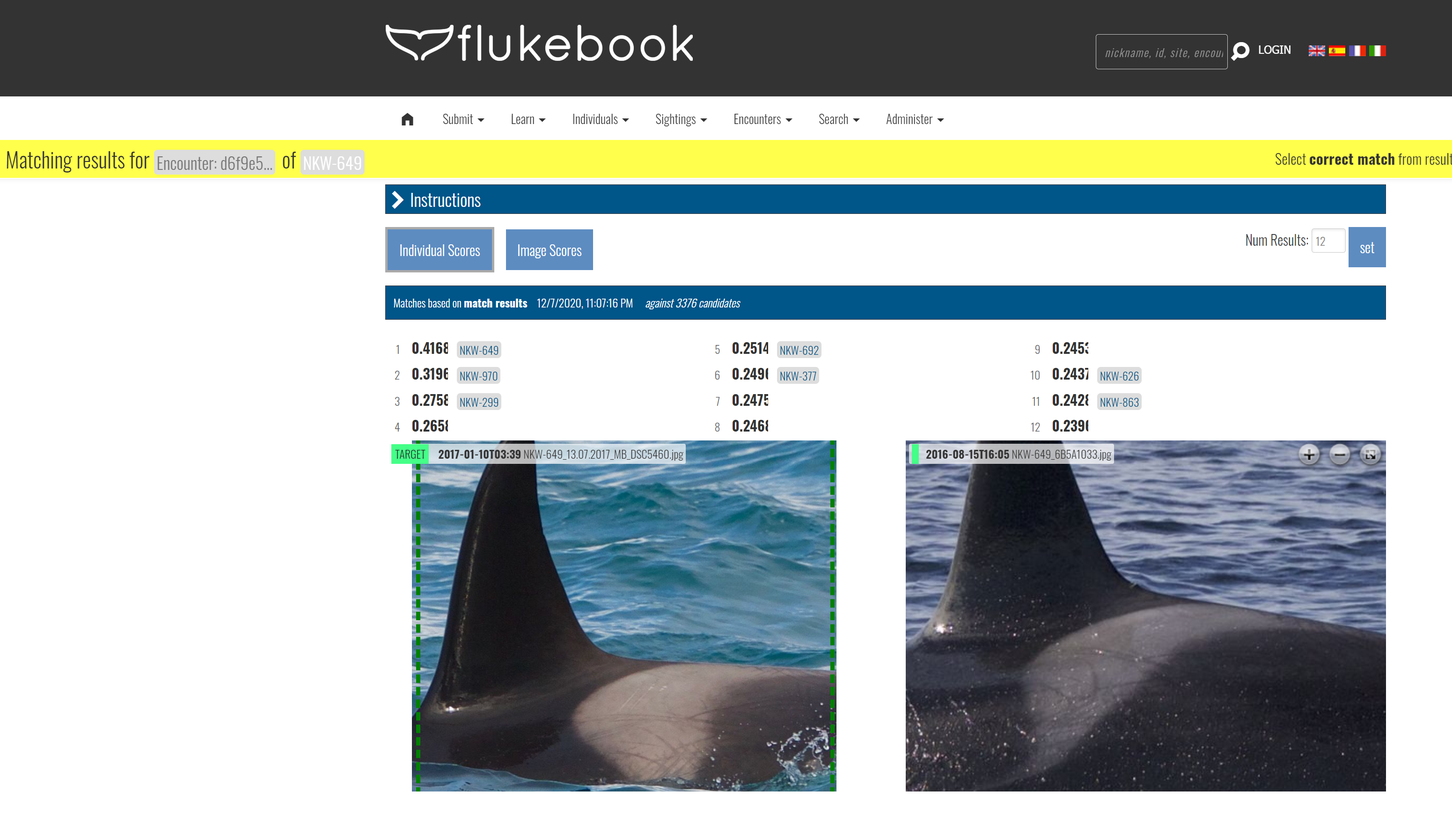
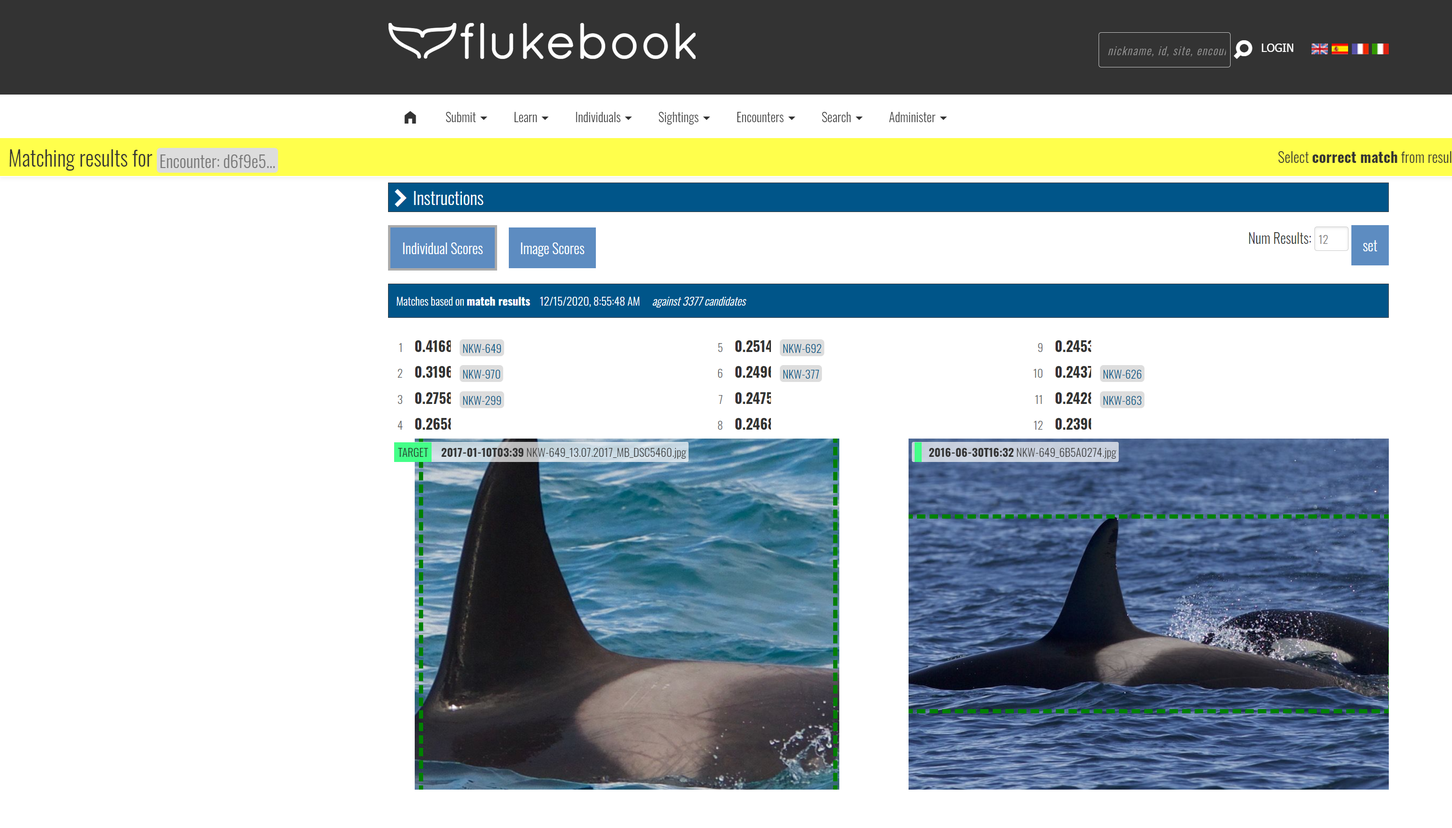
Big update on matching process

diff --git a/sidebars.js b/sidebars.js
@@ -7,24 +7,25 @@ module.exports = {
       "researchers/encounter_guide",
       "researchers/marked_individual",
       "researchers/sighting",
-      "researchers/my_account",
 	  "researchers/security_overview",
     ],
 	Data: [
+	     "researchers/photography_guidelines",
       "researchers/report_encounter",
 	  "researchers/bulk_import",
 	  "researchers/matching_process",
-    ],
-    Features: [
-      "researchers/manual_annotation",
-      "researchers/projects",
-      "researchers/silo_security",
+	  "researchers/manual_annotation",
+	  "researchers/projects",
 	  "researchers/r_package",
     ],
-    Roles: ["researchers/org_admin"],
+    Security: [
+      "researchers/security_overview",
+	  "researchers/my_account",
+      "researchers/silo_security",
+	  "researchers/org_admin",
+    ],
     Specifications: [
       "researchers/system_requirements",
-      "researchers/photography_guidelines",
       "researchers/unsupported_developer_tools",
 	  "researchers/configuration",
     ],

diff --git a/docs/researchers/matching_process.md b/docs/researchers/matching_process.md
@@ -3,38 +3,124 @@ id: matching_process
 title: Matching Process
 ---
 
-To start the matching process, you must report an encounter. Once you have uploaded an encounter, navigate to the the Encounter page. If detection has completed successfully, you will see a mediaAsset with a dashed square (a bounding box) around the animal, as depicted below.
+Wildbook provides several ways to automatically and manually access the [Image Analysis Pipeline](ia_pipeline.md) to identify individual animals, as well as to perform by-eye individual ID. Wildbook assists you in photo ID but never makes a decision for you. 
 
-![MediaAsset with bounding boxes, indicating successful detection of the animals.](../../static/img/matching_process_1.png)
+## Automated Detection and ID with Encounter submission
 
-If you do not see bounding boxes, you will need to use the Manual Annotation tool (Beta) to create an annotation, or reach out to support through the Wildbook Community.
+When you [Report an Encounter](report_encounter.md) of a single animal, if you set the species to one supported by the [Image Analysis Pipeline](ia_pipeline.md), Wildbook will automatically perform the following steps:
 
-Once you've confirmed the bounding box, you can take any of the following actions by clicking the option in the bottom right menu on the image.
+1. Send each submitted image to Detection to find one or more Annotations in each photo. When Detection 
+2. Depending on the type of Annotations returned (its "Image Analysis Class"), such as "whale_orca" or "panthera_uncia", route each Annotation to one or more ID algorithms.
+3. Consolidate all Annotation match results into a single page for your review and ID assignment (e.g., setting an existing individual ID or assigning a new ID). See [Reviewing Match Results](#reviewing-match-results) to understand the results page. The Encounter page also allows you to set individual ID later, and you can return to these match results in the future as well.
 
-## Match results
+Because Detection and Identification reside in a queue of computer vision actions requested by all users of your Wildbook, you may not immediately see the results of the [Image Analysis Pipeline](ia_pipeline.md). 
 
-Click on Match results to be taken to the iaResults page associated with your encounter.
+If you see green bounding boxes on images in your submitted Encounter, then Detection has completed. After submission, you may need to periodically refresh the Encounter page for the bounding boxes to appear.
 
-A banner at the top of the page provides a link to your encounter and the associated Marked Individual, if one exists.
+<img src="../../static/img/simpleGalleryBoundingBox.png" alt="simpleGalleryBoundingBox" width="50%" height="50%" />
 
-Use score buttons to select what candidates display:
+In the example above, two annotations have been found:
 
-Individual Scores: computes one match score for every individual in the database. This is the aggregate of each image score for that individual.
-Images Scores: computes the match score for every image in the database when compared to the query image
+- a whale_orca+fin_dorsal (bounding box around the dorsal fin)
+- whale_orca (bounding box around the whale body)
 
-Adjust the number of results that display in the list by changing the value in Num Results and selecting set.
+If you see green bounding boxes on images in your submitted Encounter and **match results** appears in the menu of any image, then Identification has started or completed. After submission, you may need to periodically refresh the Encounter page for the bounding boxes to appear and match results to be ready. Click **match results** to review potential ID matches. See [Reviewing Match Results](#reviewing-match-results) for more information.
 
-The available matches display in a list. This list contains the following information:
+<img src="../../static/img/simpleGalleryBoundingBoxMatchResults.png" alt="simpleGalleryBoundingBoxMatchResults"  width="50%" height="50%"/>
 
-Rank: The position in the listing. Correlates to the match score.
-Match score: The match score represents the value associated with the likelihood of the match being successful. These scores are not standardized between algorithms or platforms and are not bounded.
-Encounter link: Opens a new tab to the potential match encounter.
-Inspect: Zoom in and look at the features being matched. Areas that are highlighted display what the machine has identified as matching areas. If areas include background, consider the match to be less accurate than estimated.
-Checkbox: Select the checkbox to indicate that an encounter is a match with the target image.
 
-The image from your encounter appears on the left, labeled as the TARGET image. Potential candidates for matching appear on the right side, labeled to match their position in the list.
 
-## Start another match
+## Automated Detection and ID with Bulk Import
 
-## Visual matcher
+After a successful [Bulk Import](bulk_import.md), Detection and Identification can be run from the import summary, allowing for large scale processing. However, this can also cause delays for other Users attempting to use the [Image Analysis Pipeline](ia_pipeline.md) and its job queue. See [Bulk Import](bulk_import.md) for more information.
 
+## Manual Annotation with Automated ID
+
+While Wildbook uses advance machine learning to find and label animals in images, it always has a probability of missing an Annotation. Wildbook allows you to draw additional bounding boxes on an image, label their viewpoints (e.g., "left", "right", etc.), and their classes (e.g., "whale_fluke", "panthera_uncia", etc.). Once a manual Annotation has been created, its will appear as a normal Annotation on an image and will allow you to [manually start a match](#manually-starting-a-match). See [Manual Annotation](manual_annotation.md) for more information.
+
+<img src="../../static/img/addAnnotation.png" alt="addAnnotation"  width="50%" height="50%"/>
+
+### Removing an Annotation
+
+If you don't like an Annotation from machine learning-based Detection or from [Manual Annotation](manual_annotation.md), you can delete it by selecting **remove annotation** from the Encounter Gallery.
+
+<img src="../../static/img/deleteAnnotation.png" alt="deleteAnnotation" width="50%" height="50%"  />
+
+Removing an Annotation has these behaviors:
+
+- If multiple Annotations are present on an image, removing an Annotation simply removes the Annotation from the database.
+- If multiple Annotations are present on an image, but the removed Annotation is the only Annotation from this image on this Encounter, then both the Annotation and the image are removed from the Encounter. The image (a.k.a. "MediaAsset") and its other Annotations reside still on other Encounters.
+- If an Annotation is removed from an image, and this Encounter is the only place the image is referenced, then the image remains on the Encounter.
+
+## Manually Starting a Match
+
+For a matchable Annotation, you can start or re-run matching from the Encounter page Gallery by selecting **start match** or **start another match** from the menu for the Annotation.
+
+<img src="../../static/img/startMatch.png" alt="startMatch" width="50%" height="50%" />
+
+## Reviewing Match Results
+
+To review the results of the automated matching process, select **match results** from the menu on the Annotation in the Encounter Gallery. If you recently submitted the Encounter, you may need to wait and then refresh your browser periodically for Wildbook to process the results from automated Detection before the **match results** menu option appears.
+
+<img src="../../static/img/simpleGalleryBoundingBoxMatchResults.png" alt="simpleGalleryBoundingBoxMatchResults" width="50%" height="50%" />
+
+Each match result is a unique page and has a unique URL that can be emailed and shared with colleagues for review. New matching tasks replace the old results on the **match results** menu option. Each match result page may show one or more sets of matches, potentially displaying:
+
+- one algorithm match for one annotation (e.g., by clicking **start another match** on an annotation for which only one ID algorithm is configured)
+- multiple algorithm matches for one annotation (e.g., by clicking **start another match** on an annotation for which multiple ID algorithms are configured)
+- multiple algorithm matches for multiple annotations (e.g., a new Encounter submission with multiple photos)
+
+The information displayed depends on where in Wildbook the [Image Analysis Pipeline](ia_pipeline.md) was called from and for which species.
+
+<img src="../../static/img/matchResults.png" alt="matchResults"  />
+
+### Match results page sections
+
+The following sections make up the matching results page.
+
+#### Encounter banner
+
+A banner labeled **Matching results for ** at the top of the page provides a link to the related encounter and the associated Marked Individual, if an ID has been assigned to the Encounter.
+
+#### Instructions
+
+Click to expand the **Instructions** section to get instructions for reviewing matches on the page. Some of those are repeated here:
+
+- Hover mouse over results to **compare candidates** to target.
+- Links to the corresponding **encounters** and **individuals** are next to each match score.
+- Select **correct match** by hovering over the correct result and checking the checkbox
+- Use the buttons to switch between result types:
+  - **Individual Scores:** This is the default. It computes one match score for every *individual* in the database. This is the aggregate of each image score for that individual.
+  - **Image Scores:** computes the match score for every annotation in the database when compared to the query annotation
+
+* Adjust the number of results that display in each list by changing the value in **Num Results** and selecting **set**.
+
+#### Results: One ranked set per annotation per algorithm
+
+Each block of ranked results represents the top-*N* matches (default top 12) to an Annotation in descending order. Rank 1 is the top suggested match, and each successive match is presented with relatively less confidence. Roll over each row in the list to review the potentially matched annotations. The annotation from your encounter appears on the left, labeled as the TARGET image. Potential candidates for matching appear on the right side, labeled to match their position in the list.
+
+<img src="../../static/img/matchResultsSection.png" alt="matchResultsSection"  />
+
+This list contains the following information:
+
+- Rank: The position in the listing (1,2,3,4, etc.).
+- Match score: The match score represents the numeric value returned from the algorithm. These scores are not standardized between algorithms or platforms and are generally not bounded. For more information about interpreting algorithm scores, see [Identification](ia_pipeline.md#identification).
+- Encounter link: Opens a new tab to the potential match encounter.
+- Inspect: Opens a new page focused on the features being matched. Areas that are highlighted display potentially matched features. Not every algorithm will provide additional detail. Only the first 12 matches may have additional detail.
+- Checkbox: Select the checkbox to indicate that an encounter is a match with the target annotation.
+
+#### Setting the ID using the checkbox
+
+In addition to setting the Individual ID from the [Encounter page](encounter_guide.md), you can set the ID directly from the match results using the checkbox on any listed result. By clicking the checkbox, one of the following results will be suggested:
+
+- *If the annotation is on an encounter for which the ID has not yet been set and the candidate annotation does not have an ID*, selecting the checkbox will display a new option in the upper right that includes:
+  - a typeahead form field that allows you to enter a new ID to assign to both encounters or to look up an existing ID to assign to both encounters.
+  - The button **Set individual on both encounters** that allows you to set the ID from the form field. Both annotations and their respective encounters now belong to the same marked individual.
+- *If the annotation is on an encounter for which the ID has not yet been set and the candidate annotation has an ID set*, selecting the checkbox will display a new button in the upper right **Set to individual**. Click the button to assign the suggested individual ID to the annotation and its Encounter. Both annotations and their respective encounters now belong to the same marked individual.
+- *If the annotation is on an encounter for which the ID has been set and the candidate annotation has a different ID set*, selecting the checkbox will display a new button in the upper right **Merge individuals**. Click **Merge individuals** to merge the two Marked Individuals into a single record, assigning all encounters from both previously individuals to a single individual.
+
+## Visual Matcher
+
+Visual Matcher is a separate, very limited user interface to support visual matching of encounters without computer vision. To access the Visual Matcher, select **visual matcher** on the annotation menu. Visual Matcher was largely developed to support giant manta matching before the availability of computer vision. It has very limited value outside of that task and the MantaMatcher.org platform.
+
+<img src="../../static/img/visualMatcher.png" alt="visualMatcher" height="50%" width="50%" />

diff --git a/docs/researchers/bulk_import.md b/docs/researchers/bulk_import.md
@@ -3,13 +3,18 @@ id: bulk_import
 title: Bulk import (beta)
 ---
 
-To allow for integration of legacy data or other large volumes of data into the platform, we have enabled a system of uploading a large amount of data all at once. This capability is called bulk import, and allows users with login privileges to provide encounter information and related metadata en masse. Because this flow is only accessible to authorized users, the encounters are uploaded as approved encounters.
+To allow for the integration and import of legacy data as well as batched volumes of data, Wildbook provides a system for uploading a large amount of data called Bulk Import. Bulk Import allows users with login privileges to provide photos and related metadata (e.g., date, location, species, etc.) *en masse*.
 
 _Note: this functionality is in beta. This feature can be considered largely stable. Any substantial changes will be reported out before they take place._
 
 ## How to use 
 
-There are two pieces of set-up required to perform a bulk import: photo archive and spreadsheet. In setting up your bulk imports, ensure that each import has no more than 1000 encounters.
+There are two pieces of input required for a bulk import: 
+
+- photo archive in a local file system
+- Excel spreadsheet linking photos to metadata
+
+In setting up your bulk imports, ensure that each import has no more than 1000 encounters.
 
 ### Photo archive set-up
 
@@ -25,23 +30,28 @@ Remember, the image names must correspond exactly to the "Encounter.MediaAsset" 
 
 ### Spreadsheet set-up
 
-In the header of an excel or csv file, create a column for each field you want to upload to Wildbook. This must include:
+In the header of an excel or csv file, create a column for each field you want to upload to Wildbook. [See Fields Available for a list of supported fields.](#fields-available) This must include at least:
 
-1. a location reference(either Encounter.verbatimLocality, Encounter.LocationID, or Encounter.decimalLatitude and Encounter.decimalLongitude)
-2. a time reference (Encounter.year, Encounter.month, Encounter.day, etc to the most granular available)
-3. photograph reference (Encounter.MediaAsset)
+1. a location reference (Encounter.verbatimLocality, Encounter.locationID, and/ or Encounter.decimalLatitude and Encounter.decimalLongitude)
+2. a date and time reference (Encounter.year, Encounter.month, Encounter.day, etc.) to the most granular available)
+3. photograph reference (Encounter.MediaAsset*X*)
+4. Taxonomy (Encounter.genus and Encounter.specificEpithet)
 
-All other fields are optional.
+All other fields are optional. Because this flow is only accessible to authorized users, the encounters are uploaded as approved encounters if Encounter.state is not otherwise set.
 
-- Determine what columns you have data for; add and remove columns as needed.
-- Fill out each line for a single encounter. If an encounter is associated with a sighting (or occurrence), include the needed information for the sighting on one line of an associated encounter.
-- If leveraging any of the occurrence fields, ensure that each encounter is associated with an occurrence.occurenceID.
+Here are important guidelines for preparing your spreadsheet.
+
+- Determine which columns you have data for (see [Fields Available](@fields-available)). It is OK to add, remove, and reorder columns as needed from the provided list. You can create your own version of our spreadsheet as long as you do not change the header names.
+- Fill out each line for a single [Encounter](encounter_guide.md). If an encounter is associated with a [Sighting](sighting.md) (or Occurrence), include the needed information for the sighting on at least one line of an associated encounter.
+- If leveraging any of the Sighting/Occurrence fields, ensure that each encounter is linked with a common value in the Occurrence.occurenceID column.
 - Verify the following fields match exactly what exists in the system:
-    -    Encounter.submitterID - this is your username
-    -    Encounter.mediaAsset - this is the exact file name of each image
-
+    -    Encounter.submitterID - your User account's username to ensure the Encounter is credited to your User account.
+    -    Encounter.mediaAsset*X* - this is the exact file name of each image of the Encounter. *X* starts numbering at 0, and for each image is incremented by 1. 0, 1, 2, 3, etc.
 
 ### Spreadsheet templates by use case 
+
+Here are example Bulk Import Excel spreadsheet templates.
+
 [Minimum import](../../static/resources/minimum_import.xlsx)
 
 [Individual catalog](../../static/resources/individual_catalog_import.xlsx)
@@ -50,23 +60,33 @@ All other fields are optional.
 
 ### Upload
 
-When you have finished preparations, navigate to the import page (import/instructions.jsp) and begin the guided walk-through.
+When you have finished preparations, navigate to your Wildbook's Bulk Import page (import/instructions.jsp) and begin the guided walk-through.
 
-1. Select Upload Photos.
-2. Browse to your photo directory and select Upload.
-3. Select Begin Upload to be taken to the photo review page. At this point, these images are uploaded to the platform and available.
-4. Review that all photos you have uploaded are available in the import. If they are, select Accept and move on.
-5. Browse to your spreadsheet and select Open.
-6. Select Begin Upload to be taken to the import overview.
-7. Review the data integrity. _Note that the system will verify the data in the spreadsheet against ALL images you have in the system, not only the ones you are currently uploading. Review the online data integrity report carefully before initiating an upload._
+1. Select **Upload Photos**.
+2. Browse to your photo directory and select **Upload**.
+3. Select **Begin Upload** to be taken to the photo review page. At this point, these images are uploaded to the platform and available.
+4. Review that all photos you have uploaded are available in the import. If they are, select **Accept** and move on.
+5. Browse to your spreadsheet and select **Open**.
+6. Select **Begin Upload** to be taken to the import overview.
+7. Review the data preview for data integrity. _Note that the system will verify the data in the spreadsheet against ALL images you have in the system, not only the ones you are currently uploading. Review the online data integrity report carefully before initiating an upload._
 
-If everything looks as expected, select Commit these results and confirm to import all data.
+If everything looks as expected, select **Commit these results** and confirm that you want to import all data.
 
-Once the import completes, you can take the following follow-up actions:
+### Matching Process
 
-*Send to detection (no identification)*: The mediaAssets you have uploaded are sent to detection, where annotations are added for each animal the machine learning finds. Encounter metadata will be copied to each annotation. Identification can be run later individually through the Encounter page or for the entire import by accessing the appropriate log page.
+After bulk import, you can send imported encounters through the [Image Analysis Pipeline](ia_pipeline.md) if the pipeline is configured for the imported species.
 
-*Send to identification*: The mediaAssets you have uploaded are sent through the identification process.
+Once the import completes, you can take these actions:
+
+**Send to detection (no identification)**: The MediaAssets you have uploaded are sent to Detection, where annotations are added for each animal found by the [Image Analysis Pipeline](ia_pipeline.md). Identification can be run later individually through each Encounter page. See [Matching Process](matching_process.md) for more information.
+
+**Send to identification**: The MediaAssets you have uploaded are sent through Detection, and any found Annotations are sent on to the Identification process.
+
+Bulk Detection and Identification can very significantly impact the Wildbook Image Analysis queue oh machine learning jobs. Other users can expect slowdowns waiting for bulk Detection and ID jobs to finish.
+
+### Deleting a Bulk Import
+
+Mistakes happen. If you find systematic problems in the data of a Bulk Import job, you can return to the Bulk Import log page and click **Delete ImportTask** at the bottom, which will remove all of the imported data. You can now fix your data and reimport to Wildbook.
 
 ## Fields available
 
@@ -162,28 +182,30 @@ The follow fields can be included when uploading an encounter. Review the intent
 | SurveyTrack.vesselID                   | V_WString | Car 45                                             | user-provided identifier of ship used during Survey                                                                                                                                                                                                                                                                                                                                                                                                                                                                                               |
 | TissueSample.sampleID                  | V_WString | 12345                                              | ID of the Tissue Sample taken during this Encounter.                                                                                                                                                                                                                                                                                                                                                                                                                                                                                              |
 
-## Troubleshooting
+## Reviewing Bulk Imports
 
-#### What formats are supported? 
+You can review your Bulk Imports by selecting **Bulk Import Logs** from the **Administer** menu. If you have admin or orgAdmin roles on your User account, you may see additional logs for other users as well.
+
+## FAQ
+
+### What Excel file formats are supported? 
 
 .xlsx only
 
-#### I found other fields in the database, but they don't work when I try to use them in the importer.
+### I found other fields in the database, but they don't work when I try to use them in the importer.
 
 There are a number of additional fields that cannot be set using the Bulk Import capability.
 
-#### I made a mistake and want to reload my encounters.
+### I made a mistake and want to reload my encounters.
 
-The Bulk Import capability does not validate the upload against existing data. If you choose to upload the data twice, you will create duplicate encounters.
+You can delete and reimport your data. [See Deleting a Bulk Import for more information.](#deleting-a-bulk-import)
 
-#### I uploaded the wrong image, but when I clicked back to try again, the image was still listed.
+### I uploaded the wrong image, but when I clicked back to try again, the image was still listed.
 
 The list displays all images uploaded. You can navigate to the image in the platform and remove it.
 
-#### I want to set photographerX.affiliation or photographerX.fullName without providing an email address.
+### I want to set photographerX.affiliation or photographerX.fullName without providing an email address.
 
 At present, there is no way to provide this information without providing an email address because these fields are tied into the system user management.
 
-To work around this, you can provide an email that is used system-wide for all submissions that don't have an email associated. (ex: if you have a photograph submitted by a tourist through an external site, you can reference an email associated with the site along with the tourist's name)
-
-This is also true for submitterX.affiliation and submitterX.fullName.
+To work around this, you can provide an email that is used system-wide for all submissions that don't have an email associated (e.g., if you have a photograph submitted by a tourist through an external site, you can reference an email associated with the site along with the tourist's name). This is also true for submitterX.affiliation and submitterX.fullName.

diff --git a/docs/researchers/security_overview.md b/docs/researchers/security_overview.md
@@ -1,7 +1,7 @@
 ---
 id: security_overview
 title: Security Overview
-sidebar_label: Security
+sidebar_label: Security Overview
 slug: /researchers/security_overview
 ---
 
